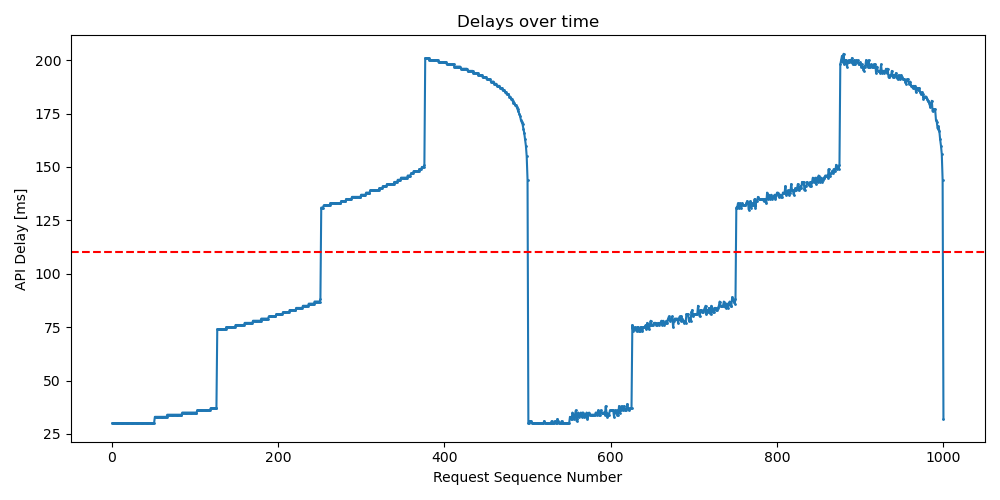
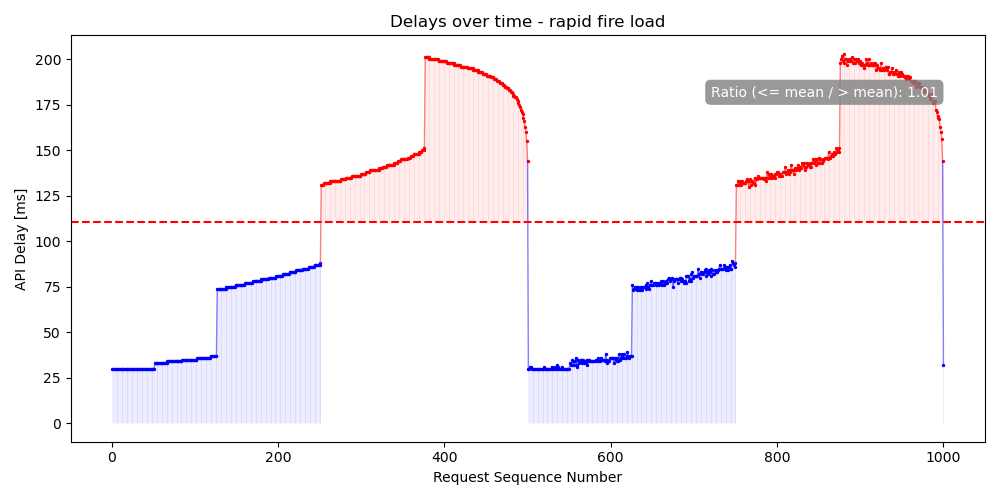
better plot

diff --git a/plot_timeline.py b/plot_timeline.py
@@ -42,20 +42,69 @@ def plot_timeline(delays):
     # Create a figure and axis
     fig, ax = plt.subplots(figsize=(10, 5))
 
-    # Plot the delays on the timeline
-    ax.plot(request_numbers, delays, marker='o', linestyle='-', markersize=1)
+    # Don't plot the delays on the timeline
+    # ax.plot(request_numbers, delays, marker='o', linestyle='-', markersize=1)
 
     # Calculate the mean of delays
     mean_delay = np.mean(delays)
+
+
+    # Initialize lists to store x and y values for blue and red delays
+    x_blue, y_blue = [], []
+    x_red, y_red = [], []
     
+    for i, delay in enumerate(delays):
+        if delay <= mean_delay:
+            x_blue.append(i + 1)
+            y_blue.append(delay)
+        else:
+            x_red.append(i + 1)
+            y_red.append(delay)
+
+
+    # # Plot vertical lines connecting the blue markers
+    ax.vlines(x_blue, ymin=0, ymax=y_blue, color='blue', alpha=0.1, linestyle='-', linewidths=0.5)
+    # # Plot vertical lines connecting the red markers
+    ax.vlines(x_red, ymin=mean_delay, ymax=y_red, color='red', alpha=0.1, linestyle='-', linewidths=0.5)
+
+    # Plot delays <= mean in blue
+    ax.scatter(x_blue, y_blue, marker='o', s=2, c='blue', label=f'Delays <= Mean ({len(x_blue)})')
+    
+    # Plot delays > mean in red
+    ax.scatter(x_red, y_red, marker='o', s=2, c='red', label=f'Delays > Mean ({len(x_red)})')
+
+
+    # Connect the markers with lines
+    for i in range(1, len(request_numbers)):
+        if i + 1 in x_blue:
+            plt.plot([request_numbers[i - 1], request_numbers[i]], [delays[i - 1], delays[i]], color='blue', linestyle='-', linewidth=1, alpha=0.5)
+        else:
+            plt.plot([request_numbers[i - 1], request_numbers[i]], [delays[i - 1], delays[i]], color='red', linestyle='-', linewidth=1, alpha=0.5)
+
+
+
+
+
     # Add a horizontal mean line
     ax.axhline(y=mean_delay, color='r', linestyle='--', label=f'Mean Delay: {mean_delay:.2f}')
 
+    # Calculate the ratio
+    ratio = len(x_blue) / len(x_red)
+    print('ratio', ratio)
+
+    # Add the ratio as text to the plot with a grey background and white foreground color
+    ax.text(
+        0.7, 0.85, f'Ratio (<= mean / > mean): {ratio:.2f}',
+        transform=ax.transAxes,
+        backgroundcolor='gray',  # Grey background color
+        color='white',  # White foreground color
+        bbox=dict(boxstyle='round,pad=0.4', facecolor='gray', edgecolor='none', alpha=0.8)  # Add a boxstyle for the background
+    )
 
     # Set labels for the x-axis (request sequence numbers)
     ax.set_xlabel('Request Sequence Number')
     ax.set_ylabel('API Delay [ms]')
-    ax.set_title('Delays over time')
+    ax.set_title('Delays over time - rapid fire load')
 
     # Display the plot
     plt.tight_layout()
